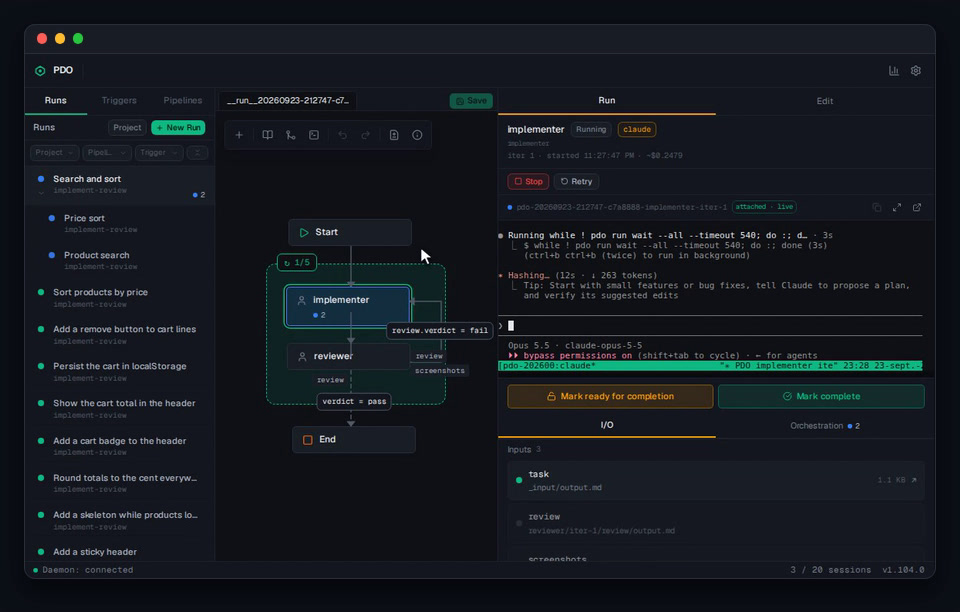
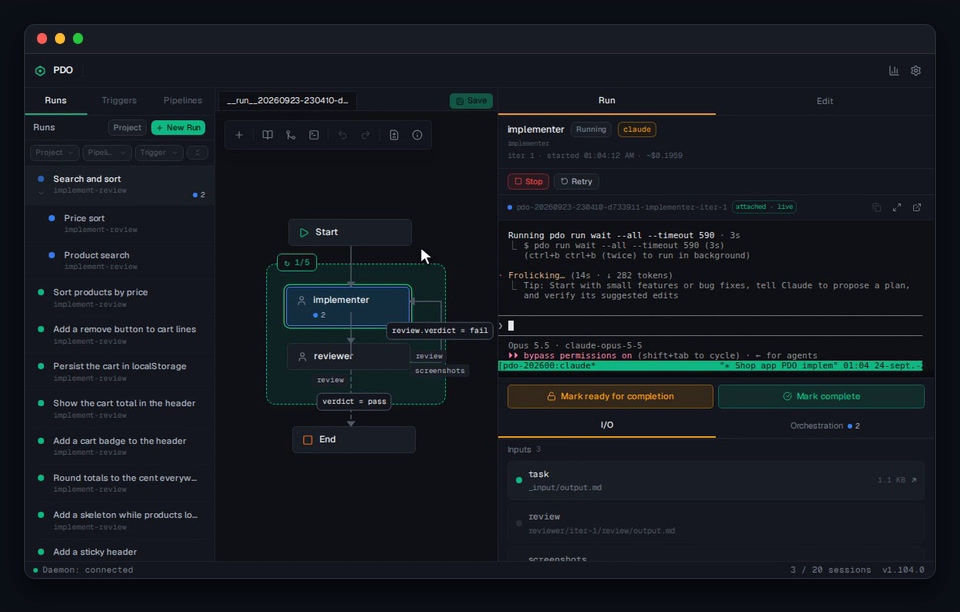
fix(readme-media): one-line manager answer, send-bar crop, typed answer held, bare run wait (#884)
- review: the demo HOME's CLAUDE.md asks the manager for a one-line answer
  (a wrapped answer fails the variant); the crop ends at the sticky send
  bar, the « Draft saved » toast waited out off camera.
- interactive-orchestrator: the answer typed word by word, each echoed
  before the next, held 1 s before Enter; one bare pdo run wait, no loop.
- review.gif and interactive-orchestrator.gif re-filmed (variant a).
- SourceBranchField tests: wait for the settled fast-forward's text, not
  for the already-open popover (flaky under load).

diff --git a/frontend/src/components/SourceBranchField.test.tsx b/frontend/src/components/SourceBranchField.test.tsx
@@ -504,8 +504,9 @@ describe("the fast-forward", () => {
     ffSetup(done());
     openSync();
     fireEvent.click(screen.getByTestId("branch-sync-ff"));
-    const popover = await screen.findByTestId("branch-sync-popover");
-    expect(popover).toHaveTextContent("main fast-forwarded to origin/main");
+    // The popover is already open: wait for the fast-forward's report, not for the popover.
+    const popover = screen.getByTestId("branch-sync-popover");
+    await waitFor(() => expect(popover).toHaveTextContent("main fast-forwarded to origin/main"));
     expect(popover).toHaveTextContent("3 commits");
     expect(popover).toHaveTextContent("now sits on the new tip");
     expect(screen.getByTestId("branch-sync-ff-moved")).toHaveTextContent(
@@ -517,8 +518,8 @@ describe("the fast-forward", () => {
     ffSetup(done({ moved_checkout: null }));
     openSync();
     fireEvent.click(screen.getByTestId("branch-sync-ff"));
-    expect(await screen.findByTestId("branch-sync-popover")).toHaveTextContent(
-      "No file changed",
+    await waitFor(() =>
+      expect(screen.getByTestId("branch-sync-popover")).toHaveTextContent("No file changed"),
     );
   });
 
@@ -543,8 +544,9 @@ describe("the fast-forward", () => {
     openSync();
     fireEvent.click(screen.getByTestId("branch-sync-ff"));
 
-    const popover = await screen.findByTestId("branch-sync-popover");
-    expect(popover).toHaveTextContent("working tree not clean");
+    const popover = screen.getByTestId("branch-sync-popover");
+    // Already open: wait for the settled call's text, not for the popover.
+    await waitFor(() => expect(popover).toHaveTextContent("working tree not clean"));
     // The daemon's own reason code: what a person searches for, and what a bug
     // report should carry.
     expect(screen.getByTestId("branch-sync-ff-reason")).toHaveTextContent("dirty_tree");
@@ -601,8 +603,9 @@ describe("the fast-forward", () => {
     openSync();
     fireEvent.click(screen.getByTestId("branch-sync-ff"));
 
-    const popover = await screen.findByTestId("branch-sync-popover");
-    expect(popover).toHaveTextContent("the branch has diverged");
+    const popover = screen.getByTestId("branch-sync-popover");
+    // Already open: wait for the settled call's text, not for the popover.
+    await waitFor(() => expect(popover).toHaveTextContent("the branch has diverged"));
     expect(popover).not.toHaveTextContent("another worktree");
     expect(popover).not.toHaveTextContent("another checkout");
     expect(screen.getByTestId("branch-sync-ff-reason")).toHaveTextContent("diverged");
@@ -628,8 +631,9 @@ describe("the fast-forward", () => {
     openSync();
     fireEvent.click(screen.getByTestId("branch-sync-ff"));
 
-    const popover = await screen.findByTestId("branch-sync-popover");
-    expect(popover).toHaveTextContent("the daemon refused");
+    const popover = screen.getByTestId("branch-sync-popover");
+    // Already open: wait for the settled call's text, not for the popover.
+    await waitFor(() => expect(popover).toHaveTextContent("the daemon refused"));
     expect(popover).not.toHaveTextContent("worktree");
     expect(screen.getByTestId("branch-sync-ff-message")).toHaveTextContent("index.lock exists");
   });
@@ -663,8 +667,9 @@ describe("the fast-forward", () => {
     openSync();
     fireEvent.click(screen.getByTestId("branch-sync-ff"));
 
-    const popover = await screen.findByTestId("branch-sync-popover");
-    expect(popover).toHaveTextContent("Nothing moved");
+    const popover = screen.getByTestId("branch-sync-popover");
+    // Already open: wait for the settled call's text, not for the popover.
+    await waitFor(() => expect(popover).toHaveTextContent("Nothing moved"));
     expect(screen.getByTestId("branch-sync-ff-error")).toHaveTextContent("daemon unreachable");
     // A failed fast-forward never blocks a launch (same contract as a failed fetch).
     expect(screen.getByTestId("branch-sync-switch")).toBeInTheDocument();

diff --git a/scripts/readme-media/README.md b/scripts/readme-media/README.md
@@ -189,8 +189,8 @@ into that crop. Record the scene, open both GIFs from `.readme-media/`, pick one
 | `routing` | — | the loop edge `reviewer → implementer`, `verdict != pass`, the exit as `else`, saved | `scenes/_canvas.mjs` |
 | `stats` | — | the Stats page over the mocked history | |
 | `outputs` | `claude` | a finished run's `reviewer`: its two ports in Edit, then in Run an annotated screenshot (lightbox) and the `review` markdown with its Mermaid diagram rendered | `scenes/_live.mjs` |
-| `review` | `claude` | a finished run's Review page, zoomed on the commented hunk: a comment on a line, sent to the manager, cut ×8, the manager's own answer in the thread | `scenes/_live.mjs` |
-| `interactive-orchestrator` | `claude` | `implementer`, interactive and orchestrator, asks a question (the « awaiting you » banner), the cursor types the answer in its terminal, then it starts two child runs of `implement-review`, nested under it in the run tree | `scenes/_live.mjs`, `scenes/_canvas.mjs` |
+| `review` | `claude` | a finished run's Review page, zoomed on the commented hunk: a comment on a line, sent to the manager, cut ×8, the manager's own answer in the thread, on one line (the demo HOME's `~/.claude/CLAUDE.md` asks for it; a wrapped answer fails the variant) | `scenes/_live.mjs` |
+| `interactive-orchestrator` | `claude` | `implementer`, interactive and orchestrator, asks a question (the « awaiting you » banner), the cursor types the answer in its terminal, then it starts two child runs of `implement-review`, nested under it in the run tree, and waits for them with one bare `pdo run wait --all` | `scenes/_live.mjs`, `scenes/_canvas.mjs` |
 | `triggers`, `profiles`, `skills` | — | settings, no agent (see below) | `scenes/_no-agent.mjs` |
 
 `scenes/_live.mjs` is for the scenes that need real agents: `startDemoRun`
